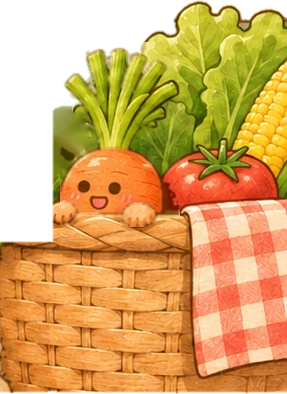
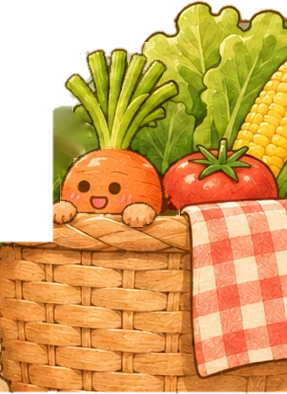
Crisp thin veggie outlines from the darkest core of the ink, remove the pale seam under the scallion leaves; calmer scroll: reading beats 1.45x longer, Lenis lerp 0.075 / wheel 0.75

diff --git a/src/components/ScrollDriver.tsx b/src/components/ScrollDriver.tsx
@@ -63,7 +63,7 @@ export default function ScrollDriver({ smooth = false }: { smooth?: boolean }) {
     let lenis: Lenis | null = null;
     let lenisRaf = 0;
     if (smooth) {
-      lenis = new Lenis({ lerp: 0.12, wheelMultiplier: 0.9, smoothWheel: true, syncTouch: false });
+      lenis = new Lenis({ lerp: 0.075, wheelMultiplier: 0.75, smoothWheel: true, syncTouch: false });
       lenis.on("scroll", () => {
         if (raf) cancelAnimationFrame(raf);
         raf = 0;

diff --git a/tools/prepare_planes.py b/tools/prepare_planes.py
@@ -108,15 +108,15 @@ def fill_rows(img: np.ndarray, hole: np.ndarray, usable: np.ndarray, feather: in
 
 # 蛋是金棕色细线描边，胡萝卜和葱原来是深棕黑的粗墨线，不是一个画风（2026-11-15 用户：蛋的边不动；蔬菜的描边要和各自本来的颜色相近、粗细和蛋差不多）。
 # 做法：大块的墨线（轮廓，面积 ≥ min_area；眼睛、嘴是小块，保持深色）加粗 1 像素，每个轮廓像素取最近的“非墨线”像素的颜色，
-# 压暗、略加饱和；线收细（INK_THIN）——绿叶的轮廓是深绿，白的葱身是暖棕，橙色胡萝卜是深橙。区域是图片像素 (x0, y0, x1, y1)。
+# 压暗、略加饱和；线收细（INK_CORE）——绿叶的轮廓是深绿，白的葱身是暖棕，橙色胡萝卜是深橙。区域是图片像素 (x0, y0, x1, y1)。
 INK_BOXES = [
     (1445, 320, 1565, 505),  # 胡萝卜（叶子 + 身子 + 手）
     (1296, 519, 1400, 710),  # 葱身子
 ]
 LEAVES_SRC = ROOT / "source/bg-v3/friends-scallion-leaves.orig.png"  # 葱叶角色层原图（tools/prepare_friends.py 的输出备份）
 LEAVES_PNG = ROOT / "public/assets/bg/friends-scallion-leaves.png"
-INK_DARKEN, INK_SAT = 0.5, 1.4
-INK_THIN = 1  # 线芯比原墨线内缩几像素（越大越细；原线约 3–4 像素宽）
+INK_DARKEN, INK_SAT = 0.45, 1.5
+INK_CORE = 80  # 线芯亮度阈值（原墨线 ≤ INK=105；取最暗的部分，越小越细）
 
 
 def tinted_ink(rgb: np.ndarray, alpha: np.ndarray | None = None, min_area: int = 800) -> np.ndarray:
@@ -133,18 +133,24 @@ def tinted_ink(rgb: np.ndarray, alpha: np.ndarray | None = None, min_area: int =
     # 区域 R = 墨线外扩 1 像素；线芯 core = 墨线内缩 1 像素（比原线细 2 像素，和蛋利落的细描边接近）。
     # R 里先整体补回旁边的底色（抹掉原来的黑线），再在 core 上画本色的深色线
     region = ndimage.binary_dilation(keep, iterations=1)
-    core = ndimage.binary_erosion(keep, iterations=INK_THIN)
+    # 线芯：墨线里最暗的部分（比整体内缩更连续，不会断成点线），闭运算补小断口，去掉零星小点
+    core = ndimage.binary_dilation(keep, iterations=1) & (lum <= INK_CORE)
+    core = ndimage.binary_closing(core, iterations=1)
+    cl, cn = ndimage.label(core)
+    csz = ndimage.sum(np.ones_like(cl), cl, range(1, cn + 1))
+    core = np.isin(cl, [i + 1 for i, a in enumerate(csz) if a >= 12])
     if alpha is not None:
         region &= alpha > 0
         core &= alpha > 0
     iy, ix = ndimage.distance_transform_edt(region, return_distances=False, return_indices=True)
-    fill = cv2.GaussianBlur(rgb[iy, ix], (5, 5), 0).astype(np.float32)
+    # 补底色和线色都不模糊（模糊会在线旁边抹出一圈脏边）：补色取最近的非墨线像素原值，线色取该点补色的深色
+    fill = rgb[iy, ix].astype(np.float32)
     hsv = cv2.cvtColor(fill.astype(np.uint8), cv2.COLOR_RGB2HSV).astype(np.float32)
     hsv[..., 1] = np.clip(hsv[..., 1] * INK_SAT + 25, 0, 255)
     hsv[..., 2] = hsv[..., 2] * INK_DARKEN
     tint = cv2.cvtColor(hsv.astype(np.uint8), cv2.COLOR_HSV2RGB).astype(np.float32)
-    wr = cv2.GaussianBlur(region.astype(np.float32), (3, 3), 0)[..., None]
-    wc = cv2.GaussianBlur(core.astype(np.float32), (3, 3), 0)[..., None]
+    wr = region.astype(np.float32)[..., None]  # 硬边：补底色只落在原墨线（外扩 1 像素）里
+    wc = cv2.GaussianBlur(core.astype(np.float32), (3, 3), 0.6)[..., None]  # 线只抗锯齿半个像素，保持实、利落
     painted = fill * (1 - wc) + tint * wc
     return np.clip(rgb.astype(np.float32) * (1 - wr) + painted * wr, 0, 255).astype(np.uint8)
 
@@ -159,7 +165,10 @@ def soften_ink(rgb: np.ndarray) -> np.ndarray:
 def tint_leaves() -> None:
     a = np.asarray(Image.open(LEAVES_SRC).convert("RGBA"))
     out = tinted_ink(a[..., :3], a[..., 3])
-    Image.fromarray(np.dstack([out, a[..., 3]])).save(LEAVES_PNG, optimize=True)
+    alpha = a[..., 3].copy()
+    alpha[-5:, :] = 0  # 原图下边 / 右边几行是补瓷砖的半透明模糊边，叠在篮沿上就是一条淡线
+    alpha[:, -4:] = 0
+    Image.fromarray(np.dstack([out, alpha])).save(LEAVES_PNG, optimize=True)
 
 
 def classify(rgb: np.ndarray) -> tuple[np.ndarray, dict]:
